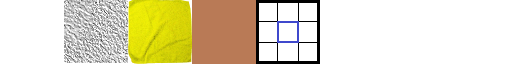
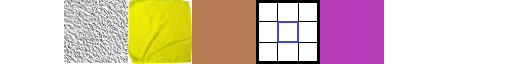
Adding pesticide

Changed region(s): [[0.625, 0.0, 0.75, 1.0]]

diff --git a/src/game/GameState/GameState.ts b/src/game/GameState/GameState.ts
@@ -63,12 +63,15 @@ export class GameStateClass {
     public instanceRemoveBombNum: number;
     public instanceRemoveLyingNum: number;
     public umbrellaNum: number;
+    public pesticideNum: number;
     public towerNum: number;
     public blockNum: number;
     public instanceUmbrellaNum: number;
+    public instancePesticideNum: number;
     public instanceTowerNum: number;
     public instanceBlockNum: number;
     public umbrellaSize: number;
+    public pesticideSize: number;
     public towerSize: number;
     public blockSize: number;
     public bombNumFightIncrement: number;
@@ -120,6 +123,14 @@ export class GameStateClass {
             } else if (inputType === FIGHT_INPUT_TYPES.UMBRELLA) {
                 GameState.instanceUmbrellaNum--;
                 if (GameState.instanceUmbrellaNum === 0) {
+                    EventBus.emit(
+                        FIGHT_EVENTS.CHANGE_INPUT_TYPE,
+                        FIGHT_INPUT_TYPES.REVEAL,
+                    );
+                }
+            } else if (inputType === FIGHT_INPUT_TYPES.PESTICIDE) {
+                GameState.instancePesticideNum--;
+                if (GameState.instancePesticideNum === 0) {
                     EventBus.emit(
                         FIGHT_EVENTS.CHANGE_INPUT_TYPE,
                         FIGHT_INPUT_TYPES.REVEAL,
@@ -504,6 +515,8 @@ export class GameStateClass {
         this.removeLyingNum = GAME_CONSTANTS.startingRemoveLyingNum;
         this.umbrellaNum = GAME_CONSTANTS.startingUmbrellaNum;
         this.umbrellaSize = GAME_CONSTANTS.startingUmbrellaSize;
+        this.pesticideNum = GAME_CONSTANTS.startingPesticideNum;
+        this.pesticideSize = GAME_CONSTANTS.startingPesticideSize;
         this.towerNum = GAME_CONSTANTS.startingTowerNum;
         this.towerSize = GAME_CONSTANTS.startingTowerSize;
         this.blockNum = GAME_CONSTANTS.startingBlockNum;
@@ -545,6 +558,7 @@ export class GameStateClass {
         this.instanceRemoveBombNum = this.removeBombNum;
         this.instanceRemoveLyingNum = this.removeLyingNum;
         this.instanceUmbrellaNum = this.umbrellaNum;
+        this.instancePesticideNum = this.pesticideNum;
         this.instanceTowerNum = this.towerNum;
         this.instanceBlockNum = this.blockNum;
         EventBus.emit(GAME_EVENTS.RESET_FIGHT_INPUT_MENU);

diff --git a/src/game/Hud/FightInputMenu.ts b/src/game/Hud/FightInputMenu.ts
@@ -97,6 +97,12 @@ export default class FightInputMenu {
                             inputText.setText(
                                 `${GameState.instanceUmbrellaNum}`,
                             );
+                        } else if (
+                            inputTypeUse === FIGHT_INPUT_TYPES.PESTICIDE
+                        ) {
+                            inputText.setText(
+                                `${GameState.instancePesticideNum}`,
+                            );
                         } else if (inputTypeUse === FIGHT_INPUT_TYPES.TOWER) {
                             inputText.setText(`${GameState.instanceTowerNum}`);
                         } else if (inputTypeUse === FIGHT_INPUT_TYPES.BLOCK) {
@@ -180,6 +186,13 @@ export default class FightInputMenu {
 
                         this.showInputHint(3, GameState.towerSize);
                         break;
+                    case FIGHT_INPUT_TYPES.PESTICIDE:
+                        this.scene.input.setDefaultCursor(
+                            "url(/assets/cursors/pesticideSm.cur), pointer",
+                        );
+
+                        this.showInputHint(5, GameState.pesticideSize);
+                        break;
                     default:
                         this.hideInputHint();
                         break;
@@ -228,6 +241,8 @@ export default class FightInputMenu {
                     inputText.setText(`${GameState.instanceRemoveLyingNum}`);
                 } else if (inputType === FIGHT_INPUT_TYPES.UMBRELLA) {
                     inputText.setText(`${GameState.instanceUmbrellaNum}`);
+                } else if (inputType === FIGHT_INPUT_TYPES.PESTICIDE) {
+                    inputText.setText(`${GameState.instancePesticideNum}`);
                 } else if (inputType === FIGHT_INPUT_TYPES.TOWER) {
                     inputText.setText(`${GameState.instanceTowerNum}`);
                 } else if (inputType === FIGHT_INPUT_TYPES.BLOCK) {

diff --git a/src/game/Fight/FightGridCell.ts b/src/game/Fight/FightGridCell.ts
@@ -157,6 +157,8 @@ export default class FightGridCell {
             this.useTower();
         } else if (inputType === FIGHT_INPUT_TYPES.UMBRELLA) {
             this.useUmbrella();
+        } else if (inputType === FIGHT_INPUT_TYPES.PESTICIDE) {
+            this.usePesticide();
         }
     }
 
@@ -626,6 +628,30 @@ export default class FightGridCell {
             this.specialOverlayContainer.add(umbrellaText);
 
             this.grid.board.add(umbrellaShadow);
+        }
+    }
+
+    usePesticide() {
+        if (GameState.instancePesticideNum > 0) {
+            this.incrementFightMove();
+            EventBus.emit(
+                FIGHT_EVENTS.USE_LIMITED_INPUT,
+                FIGHT_INPUT_TYPES.PESTICIDE,
+            );
+
+            const adjacentCells = this.grid.getAllCellsInDiameter(
+                this,
+                GameState.pesticideSize,
+            );
+
+            adjacentCells.forEach((cell: FightGridCell) => {
+                if (cell && cell.isTentacle) {
+                    cell.isTentacle = false;
+                    if (cell.open) {
+                        cell.flagOverlay.setFrame(0);
+                    }
+                }
+            });
         }
     }
 

diff --git a/src/game/GameState/gameConstants.ts b/src/game/GameState/gameConstants.ts
@@ -42,18 +42,21 @@ export const GAME_CONSTANTS = {
         // FIGHT_INPUT_TYPES.UMBRELLA,
         // FIGHT_INPUT_TYPES.TOWER,
         // FIGHT_INPUT_TYPES.BLOCK,
+        // FIGHT_INPUT_TYPES.PESTICIDE,
     ],
     startingTrustedNumbers: [],
     startingRemoveTrashNum: 6,
     startingRemoveBombNum: 8,
-    startingRemoveLyingNum: 6,
+    startingRemoveLyingNum: 13,
     startingUmbrellaNum: 9,
+    startingPesticideNum: 3,
     startingTowerNum: 6,
     startingBlockNum: 2,
     startingTentacleNum: 1,
     startingTrashTileNum: 1,
     startingLyingTileNum: 2,
     startingUmbrellaSize: 3,
+    startingPesticideSize: 5,
     startingBombCounterCanLiePercent: 5,
     startingTowerSize: 5,
     startingBlockSize: 2,

diff --git a/src/game/functions/getInputUsesAvailable.ts b/src/game/functions/getInputUsesAvailable.ts
@@ -21,6 +21,8 @@ export const getInputUsesAvailable = (inputType: string) => {
             return GameState.towerNum;
         case FIGHT_INPUT_TYPES.BLOCK:
             return GameState.blockNum;
+        case FIGHT_INPUT_TYPES.PESTICIDE:
+            return GameState.pesticideNum;
         default:
             return -1;
     }
@@ -46,6 +48,8 @@ export const getInputInstanceUsesAvailable = (inputType: string) => {
             return GameState.instanceTowerNum;
         case FIGHT_INPUT_TYPES.BLOCK:
             return GameState.instanceBlockNum;
+        case FIGHT_INPUT_TYPES.PESTICIDE:
+            return GameState.instancePesticideNum;
         default:
             return -1;
     }

diff --git a/src/game/Shop/ShopItem.ts b/src/game/Shop/ShopItem.ts
@@ -350,6 +350,13 @@ export default class ShopItem {
                         message: "Added 2 Uses of the Towel Key",
                     });
                     break;
+                case "pesticideUses":
+                    GameState.pesticideNum += itemEffect.pesticideUses;
+                    EventBus.emit(UI_EVENTS.DISPLAY_MESSAGE, {
+                        type: UI_MESSAGE_TYPES.SUCCESS,
+                        message: "Added 3 Uses of the Pesticide Key",
+                    });
+                    break;
                 case "blockUses":
                     GameState.blockNum += itemEffect.blockUses;
                     EventBus.emit(UI_EVENTS.DISPLAY_MESSAGE, {

diff --git a/src/game/Shop/shopItems.ts b/src/game/Shop/shopItems.ts
@@ -381,6 +381,18 @@ export const SHOP_ITEMS: { [key: string]: shopItemType } = {
         activated: false,
         restrictions: { advancedMechanics: "fightCanHaveTentacles" },
     },
+    PESTICIDE_USES_THREE: {
+        id: "PESTICIDE_USES_THREE",
+        name: "Pesticide Barrel",
+        description: "Adds 3 uses to Pesticide key",
+        cost: 7,
+        effect: { pesticideUses: 3 },
+        icon: 18,
+        permanent: true,
+        singleton: false,
+        activated: false,
+        restrictions: { key: "PESTICIDE" },
+    },
     TRUSTED_NUMBER_THREE: {
         id: "TRUSTED_NUMBER_THREE",
         name: "Trusty 3s",

diff --git a/src/game/GameState/keyItems.ts b/src/game/GameState/keyItems.ts
@@ -46,6 +46,11 @@ export const KEY_ITEMS: { [key: string]: keyItemType } = {
         name: "Cement",
         description: `Covers a 2x2 area in cement, removing it from the ${flavorConstants.FIGHT_NAME}`,
     },
+    PESTICIDE: {
+        id: "PESTICIDE",
+        name: "Pesticide",
+        description: `Temporarily Removes Tentacles from a 5x5 Area`,
+    },
 };
 
 export type keyItemType = {

diff --git a/src/game/Fight/fightConstants.ts b/src/game/Fight/fightConstants.ts
@@ -28,4 +28,5 @@ export const FIGHT_INPUT_TYPES = {
     UMBRELLA: "UMBRELLA",
     TOWER: "TOWER",
     BLOCK: "BLOCK",
+    PESTICIDE: "PESTICIDE",
 };
